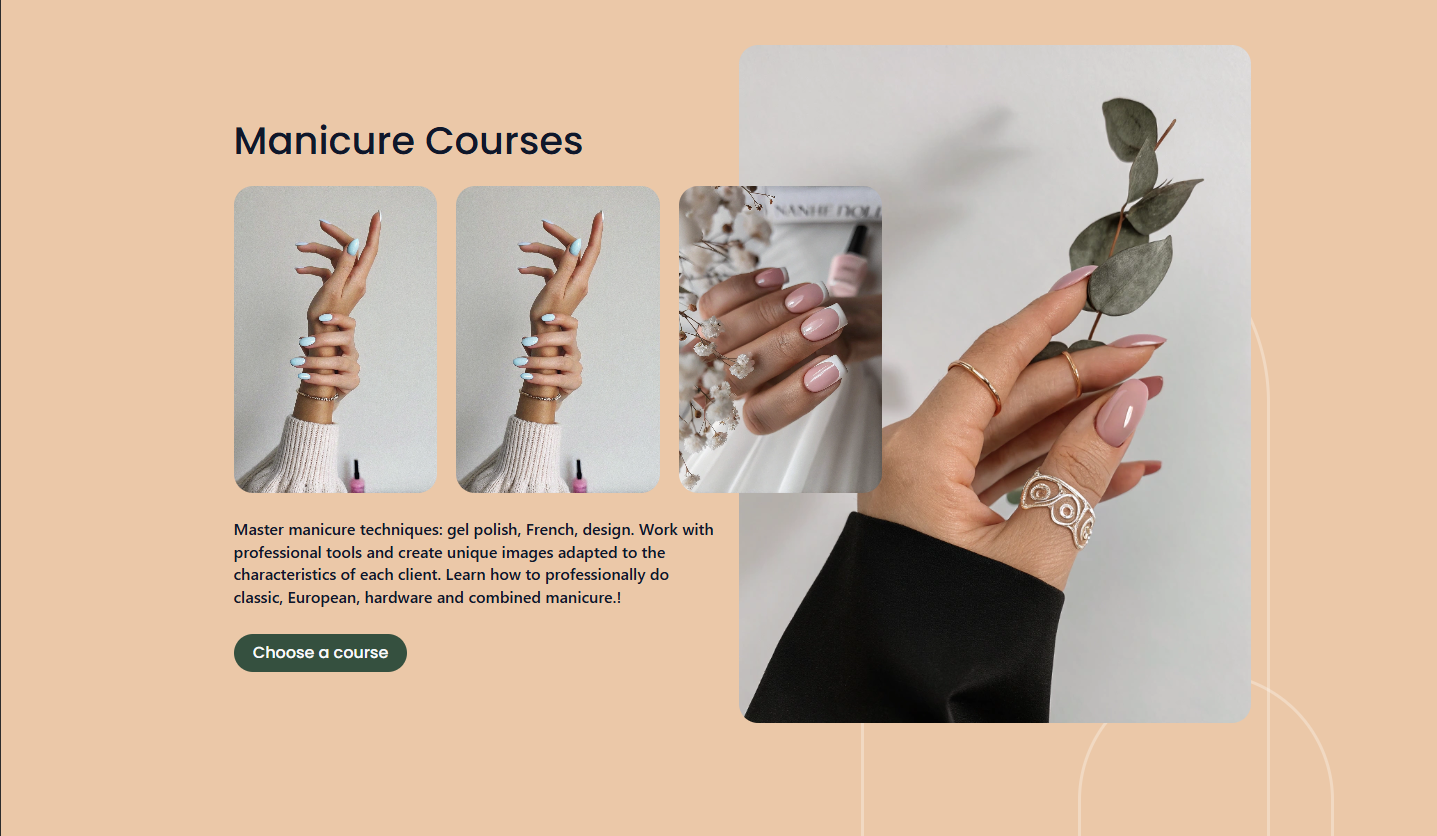
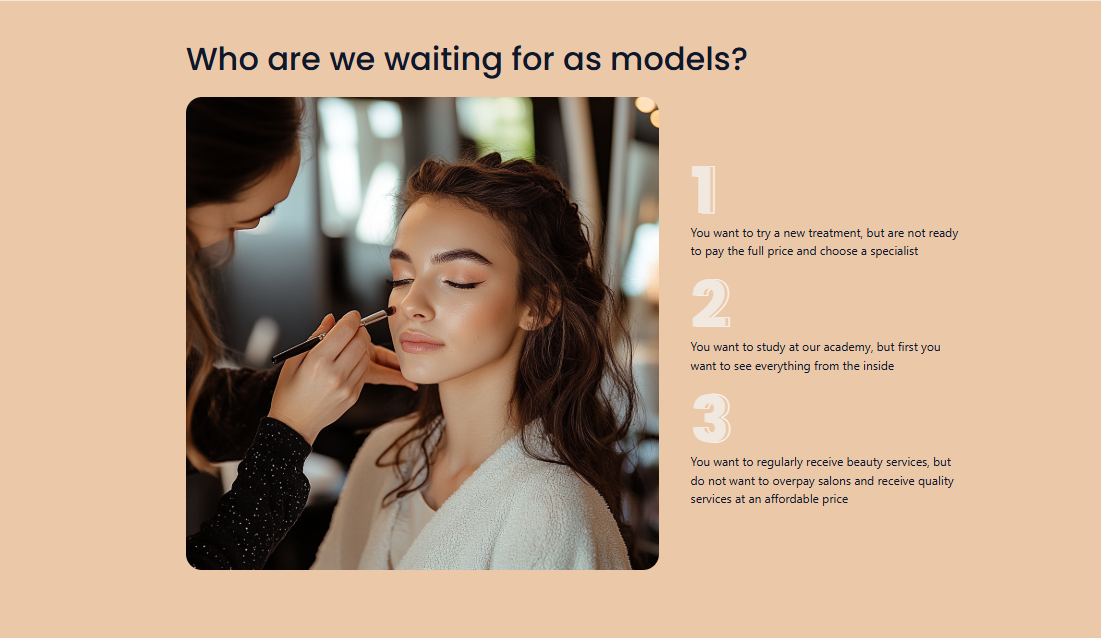
relevant content

diff --git a/src/details/ChicscoinDetails.tsx b/src/details/ChicscoinDetails.tsx
@@ -55,7 +55,7 @@ const ChicscoinDetails = () => {
                     <div className="hidden sm:block flex-shrink-0 h-80 md:h-64 lg:h-80 xl:h-96">
                         <img
                             alt="mockup"
-                            src="/nata.dev/images/cases/shmoneloops_mob.png"
+                            src="/nata.dev/images/cases/chicscoin_mob.png"
                             className="relative h-full object-cover"
                         />
                     </div>
@@ -65,28 +65,24 @@ const ChicscoinDetails = () => {
                     <div className="sm:hidden w-1/2 flex-shrink-0">
                         <img
                             alt="mockup"
-                            src="/nata.dev/images/cases/shmoneloops_mob.png"
+                            src="/nata.dev/images/cases/chicscoin_mob.png"
                             className="relative w-full object-cover"
                         />
                     </div>
 
                     <div className="flex flex-col justify-between gap-2 sm:flex-row lg:flex-col lg:h-full">
                         <div className="order-1 rounded-3xl h-full sm:h-48 sm:w-full md:h-52 lg:h-1/2 lg:w-40 lg:order-2 xl:w-60 overflow-hidden">
-                            <video
-                                src="/nata.dev/video/shmoneloops_anim.MP4"
-                                autoPlay
-                                loop
-                                muted
-                                playsInline
-                                className="w-full h-full object-cover"
-                                aria-label="animation"
+                            <img
+                                alt=""
+                                src="/nata.dev/images/cases/chicscoin_ex2.png"
+                                className="relative w-full h-full object-cover"
                             />
                         </div>
 
                         <div className="order-2 rounded-3xl h-full sm:h-48 sm:w-full md:h-52 lg:h-1/2 lg:w-40 lg:order-1 xl:w-60 overflow-hidden">
                             <img
                                 alt=""
-                                src="/nata.dev/images/cases/shmoneloops_ex.png"
+                                src="/nata.dev/images/cases/chicscoin_ex1.png"
                                 className="relative w-full h-full object-cover"
                             />
                         </div>

diff --git a/src/details/QuickmarkDetails.tsx b/src/details/QuickmarkDetails.tsx
@@ -56,7 +56,7 @@ const QuickmarkDetails = () => {
                     <div className="hidden sm:block flex-shrink-0 h-80 md:h-64 lg:h-80 xl:h-96">
                         <img
                             alt="mockup"
-                            src="/nata.dev/images/cases/shmoneloops_mob.png"
+                            src="/nata.dev/images/cases/quickmark_mob.png"
                             className="relative h-full object-cover"
                         />
                     </div>
@@ -66,28 +66,24 @@ const QuickmarkDetails = () => {
                     <div className="sm:hidden w-1/2 flex-shrink-0">
                         <img
                             alt="mockup"
-                            src="/nata.dev/images/cases/shmoneloops_mob.png"
+                            src="/nata.dev/images/cases/quickmark_mob.png"
                             className="relative w-full object-cover"
                         />
                     </div>
 
                     <div className="flex flex-col justify-between gap-2 sm:flex-row lg:flex-col lg:h-full">
                         <div className="order-1 rounded-3xl h-full sm:h-48 sm:w-full md:h-52 lg:h-1/2 lg:w-40 lg:order-2 xl:w-60 overflow-hidden">
-                            <video
-                                src="/nata.dev/video/shmoneloops_anim.MP4"
-                                autoPlay
-                                loop
-                                muted
-                                playsInline
-                                className="w-full h-full object-cover"
-                                aria-label="animation"
+                            <img
+                                alt=""
+                                src="/nata.dev/images/cases/quickmark_ex2.png"
+                                className="relative w-full h-full object-cover"
                             />
                         </div>
 
                         <div className="order-2 rounded-3xl h-full sm:h-48 sm:w-full md:h-52 lg:h-1/2 lg:w-40 lg:order-1 xl:w-60 overflow-hidden">
                             <img
                                 alt=""
-                                src="/nata.dev/images/cases/shmoneloops_ex.png"
+                                src="/nata.dev/images/cases/quickmark_ex1.png"
                                 className="relative w-full h-full object-cover"
                             />
                         </div>

diff --git a/src/sections/CasesShow.tsx b/src/sections/CasesShow.tsx
@@ -40,7 +40,7 @@ const CasesShow: React.FC = () => {
             title: 'Quickmark',
             description: 'Сервис маркировки товаров с лендингом и функциональной админ-панелью',
             expandedContent: <QuickmarkDetails />,
-            expandedBgColor: "rgba(255, 255, 255, 1)",
+            expandedBgColor: "rgba(255, 210, 132, 1)",
             extraClasses: "text-black bg-gradient-to-r from-[#fe985d] to-[#ffea94]",
         },
     ];
@@ -50,7 +50,7 @@ const CasesShow: React.FC = () => {
             <div className="max-w-7xl mx-auto">
                 <div className="relative z-10">
                     <SectionTitle className="mb-10 md:mb-12">Мои работы</SectionTitle>
-                    <div className="mb-10 flex flex-col gap-10 md:gap-16">
+                    <div className="mb-10 flex flex-col gap-10 md:gap-16 md:mb-20">
                         {projects.map((project, index) => (
                             <CaseShow
                                 isEven={index % 2 === 1}
@@ -65,6 +65,9 @@ const CasesShow: React.FC = () => {
                             />
                         ))}
                     </div>
+                    <p className="w-5/6 mx-auto text-center text-sm md:text-base lg:w-2/3 xl:w-1/2">
+                        Часть проектов находится под NDA и не могут быть размещены в портфолио. Свяжитесь со мной для уточнения деталей вашего проекта.
+                    </p>
                 </div>
             </div>
         </section>

diff --git a/src/components/Cards/CaseShow.tsx b/src/components/Cards/CaseShow.tsx
@@ -107,8 +107,19 @@ const CaseShow: React.FC<CaseShowProps> = ({
                             />
                         )}
 
-                        <div
+                        {/* <div
                             className={`absolute bottom-2 right-2 ${isEven ? 'lg:right-auto lg:left-2' : ''} flex items-center justify-center p-1 border border-white/40 text-white/60 rounded-full hover:border-white/50 hover:text-white/70 cursor-pointer transition-all duration-300`}
+                            onClick={() => setIsExpanded(!isExpanded)}
+                        >
+                            {isExpanded ? (
+                                <MdExpandLess className="size-6" />
+                            ) : (
+                                <MdExpandMore className="size-6" />
+                            )}
+                        </div> */}
+
+                        <div
+                            className={`absolute bottom-2 right-2 ${isEven ? 'lg:right-auto lg:left-2' : ''} flex items-center justify-center p-1 bg-white text-pink-500 border border-pink-500 rounded-full hover:text-pink-800 hover:border-pink-800 cursor-pointer transition-all duration-300`}
                             onClick={() => setIsExpanded(!isExpanded)}
                         >
                             {isExpanded ? (

diff --git a/src/details/AcademyDetails.tsx b/src/details/AcademyDetails.tsx
@@ -55,7 +55,7 @@ const AcademyDetails = () => {
                     <div className="hidden sm:block flex-shrink-0 h-80 md:h-64 lg:h-80 xl:h-96">
                         <img
                             alt="mockup"
-                            src="/nata.dev/images/cases/shmoneloops_mob.png"
+                            src="/nata.dev/images/cases/academy_mob.png"
                             className="relative h-full object-cover"
                         />
                     </div>
@@ -65,7 +65,7 @@ const AcademyDetails = () => {
                     <div className="sm:hidden w-1/2 flex-shrink-0">
                         <img
                             alt="mockup"
-                            src="/nata.dev/images/cases/shmoneloops_mob.png"
+                            src="/nata.dev/images/cases/academy_mob.png"
                             className="relative w-full object-cover"
                         />
                     </div>
